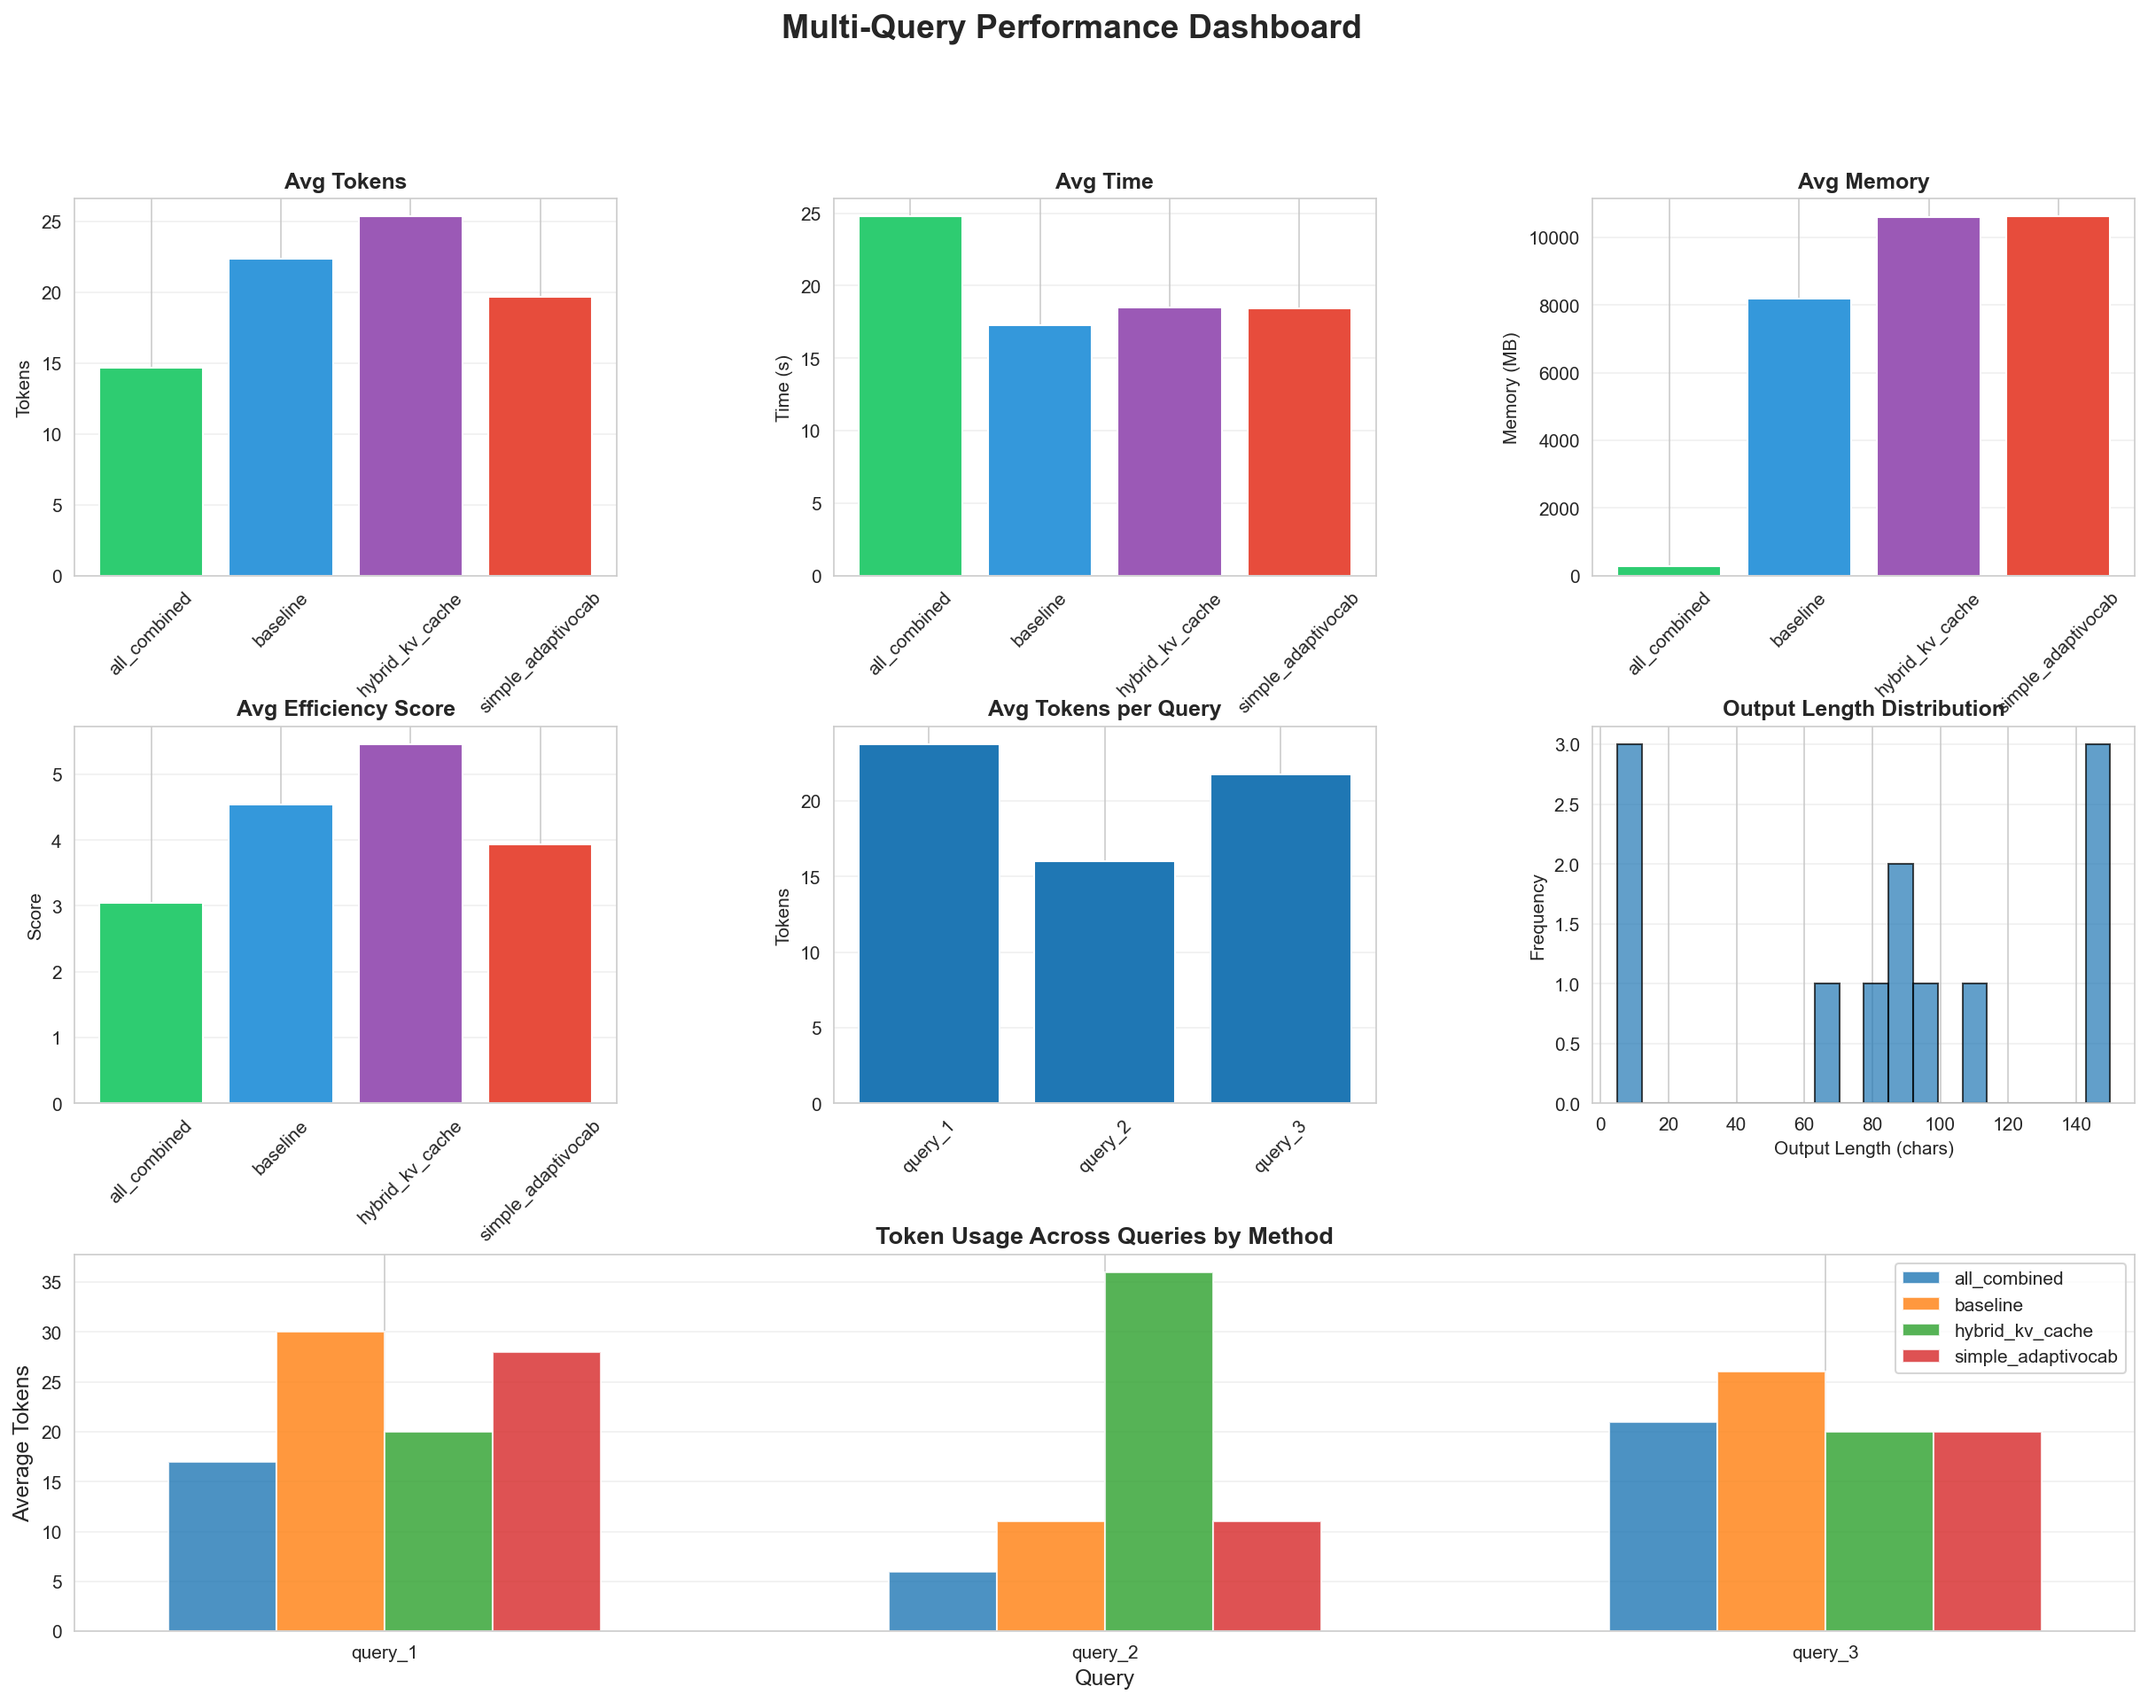
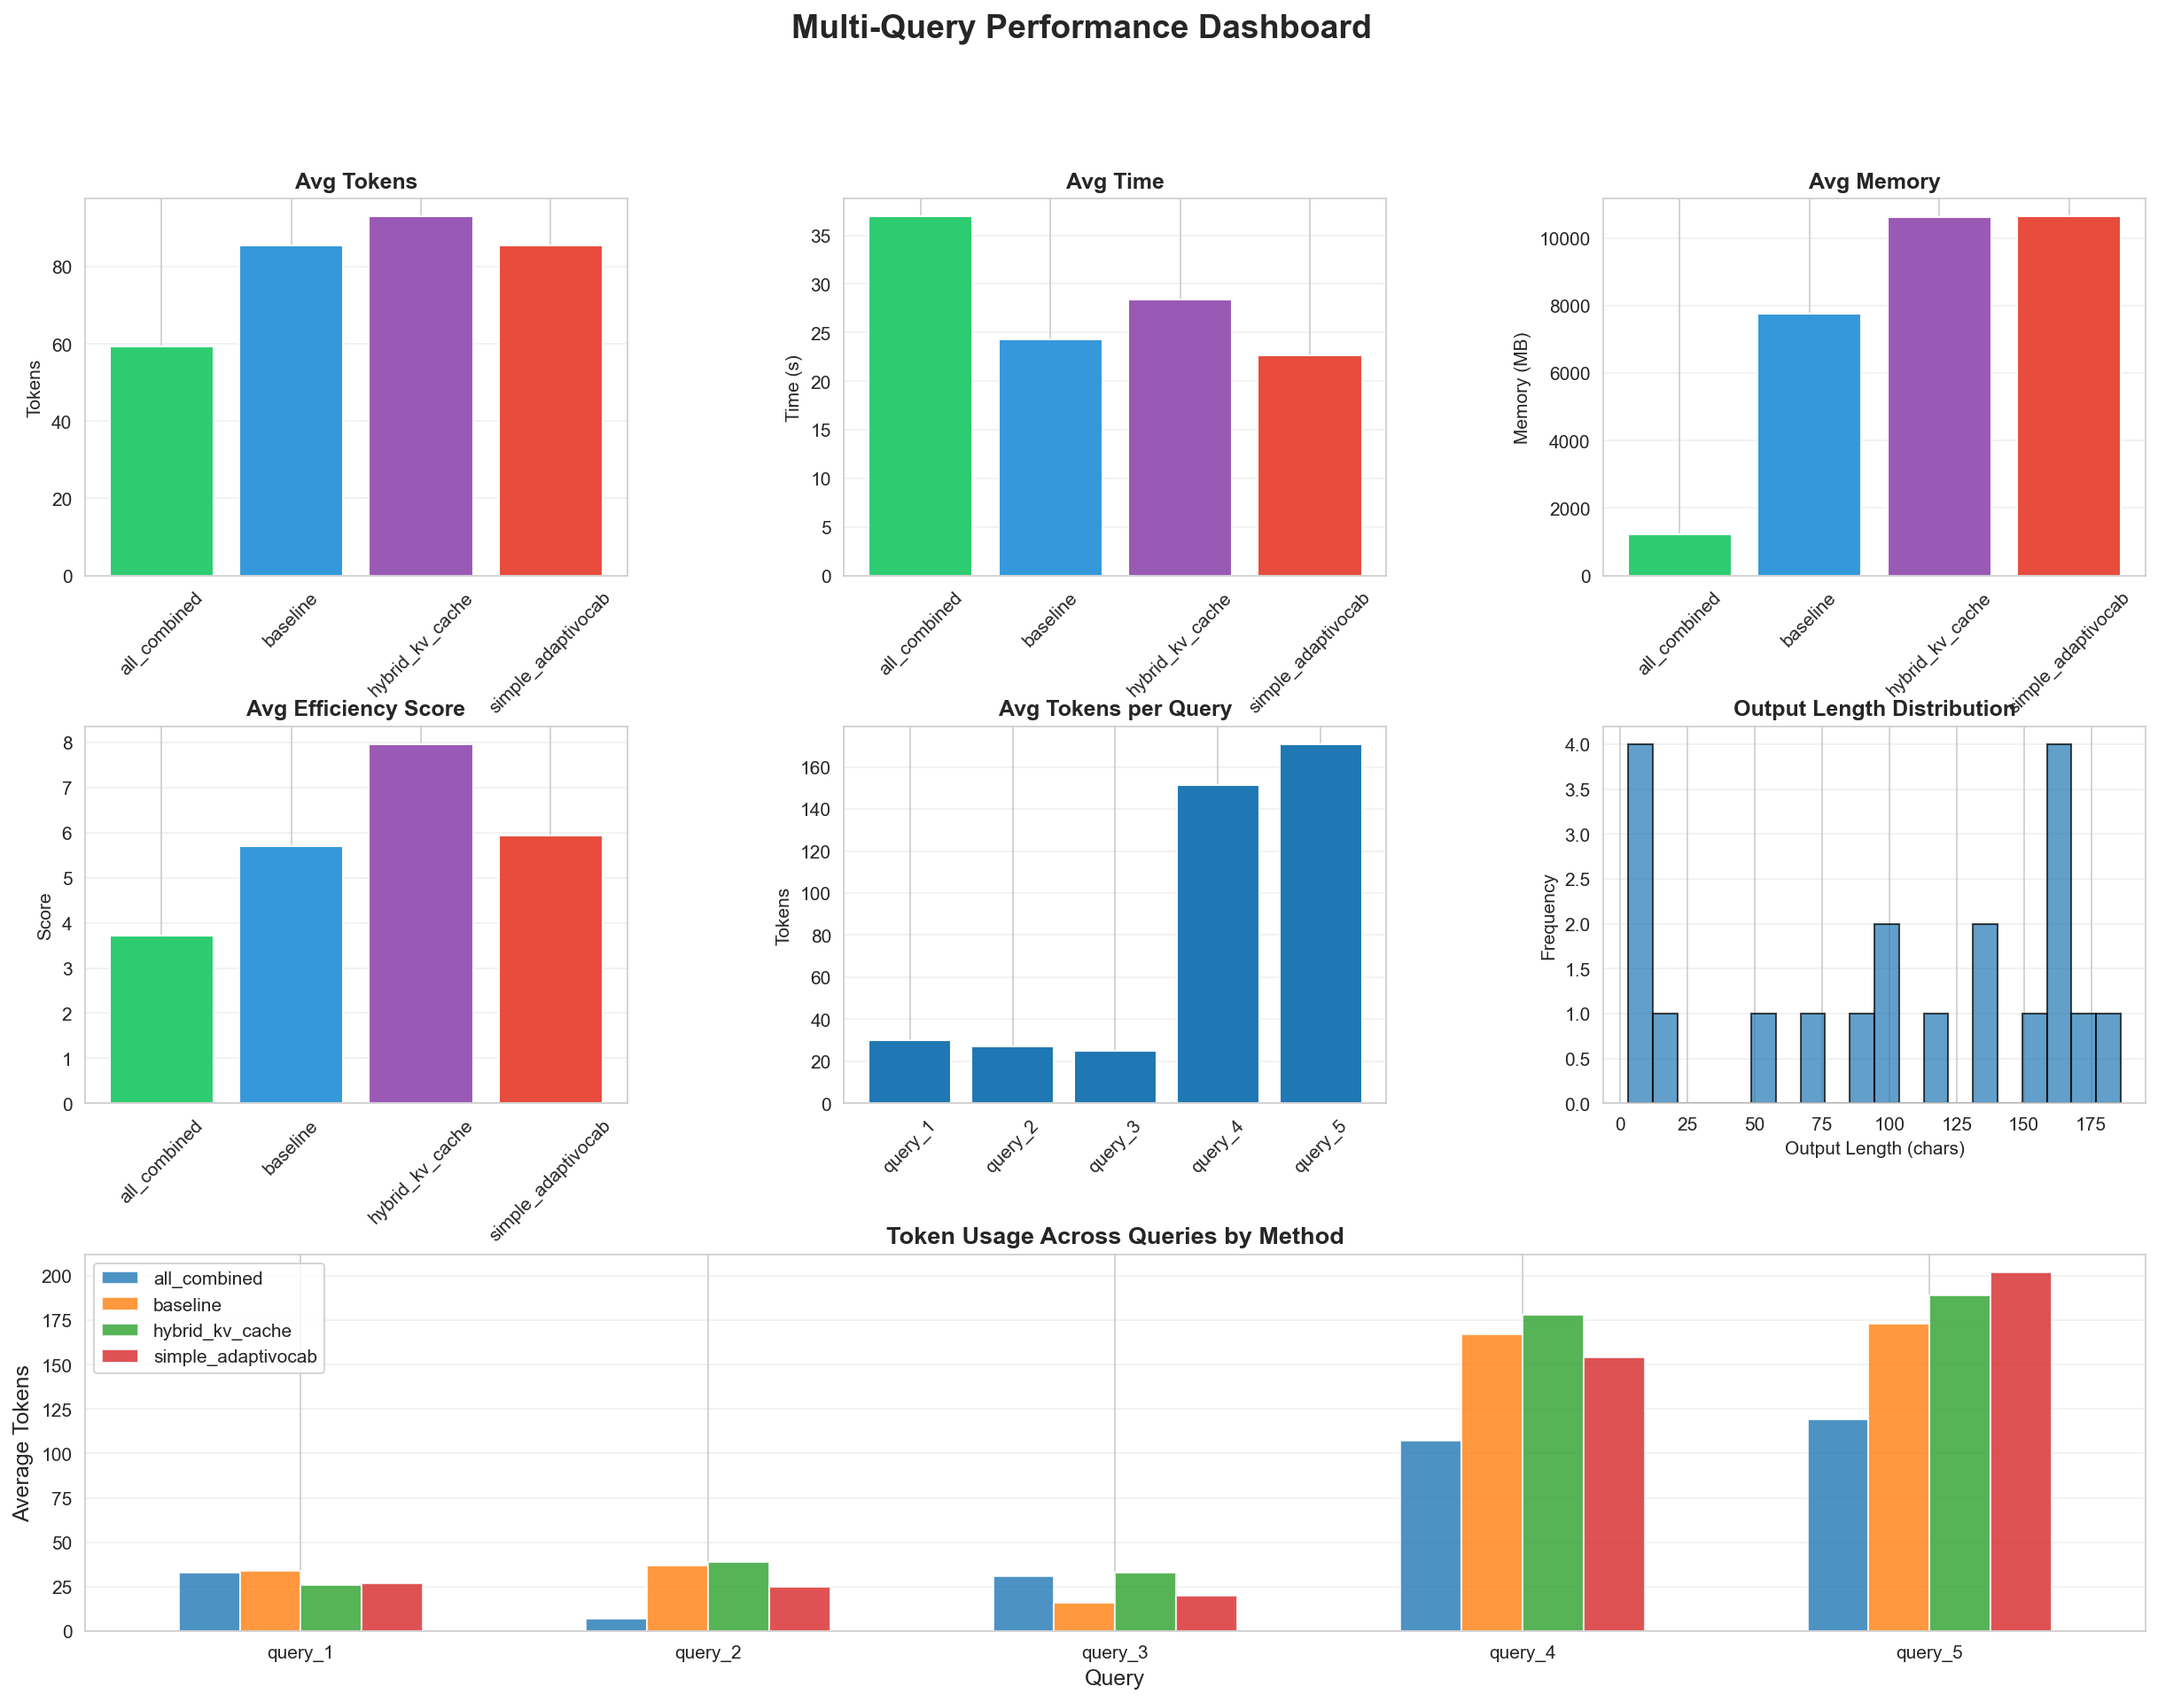
Add text summarization queries and update multi-query results
- Added 2 new summarization queries (150 words each):
  - AI/ML summarization query
  - Climate change summarization query
- Updated multi_query_comparison.py with 5 total queries
- Regenerated multi_query_results.json with all 5 queries
- Updated visualizations with new summarization results
- All queries now include: definition, explanation, how_it_works, and 2 summarization tasks

diff --git a/standalone_chatbot/multi_query_comparison.py b/standalone_chatbot/multi_query_comparison.py
@@ -29,6 +29,22 @@ TEST_QUERIES = [
         "input": "How does machine learning work?",
         "category": "how_it_works",
         "expected_keywords": ["learning", "data", "algorithm", "model"]
+    },
+    {
+        "id": "query_4",
+        "input": "Summarize the following text: " + """
+        Artificial intelligence has revolutionized numerous industries by enabling machines to perform tasks that traditionally required human intelligence. Machine learning algorithms can analyze vast amounts of data to identify patterns and make predictions with remarkable accuracy. Deep learning, a subset of machine learning, uses neural networks with multiple layers to process complex information. Natural language processing allows computers to understand and generate human language, powering chatbots and translation services. Computer vision enables machines to interpret and analyze visual information from images and videos. These technologies are transforming healthcare through diagnostic tools, finance through fraud detection, and transportation through autonomous vehicles. The integration of AI into everyday applications continues to expand, making intelligent systems more accessible and impactful across various sectors of society.
+        """,
+        "category": "summarization",
+        "expected_keywords": ["artificial intelligence", "machine learning", "neural networks", "applications"]
+    },
+    {
+        "id": "query_5",
+        "input": "Summarize the following text: " + """
+        Climate change represents one of the most pressing challenges facing humanity in the 21st century. Rising global temperatures are causing widespread environmental changes, including melting ice caps, rising sea levels, and extreme weather events. The primary driver of climate change is the increased concentration of greenhouse gases in the atmosphere, largely due to human activities such as burning fossil fuels, deforestation, and industrial processes. Scientists have documented significant impacts on ecosystems, with many species facing habitat loss and extinction risks. Agricultural systems are also being affected, with changing precipitation patterns and temperature extremes threatening food security. International efforts to address climate change include the Paris Agreement, which aims to limit global warming to well below 2 degrees Celsius. Transitioning to renewable energy sources, improving energy efficiency, and implementing sustainable practices are crucial steps toward mitigating the effects of climate change.
+        """,
+        "category": "summarization",
+        "expected_keywords": ["climate change", "global warming", "greenhouse gases", "environmental impact"]
     }
 ]
 
